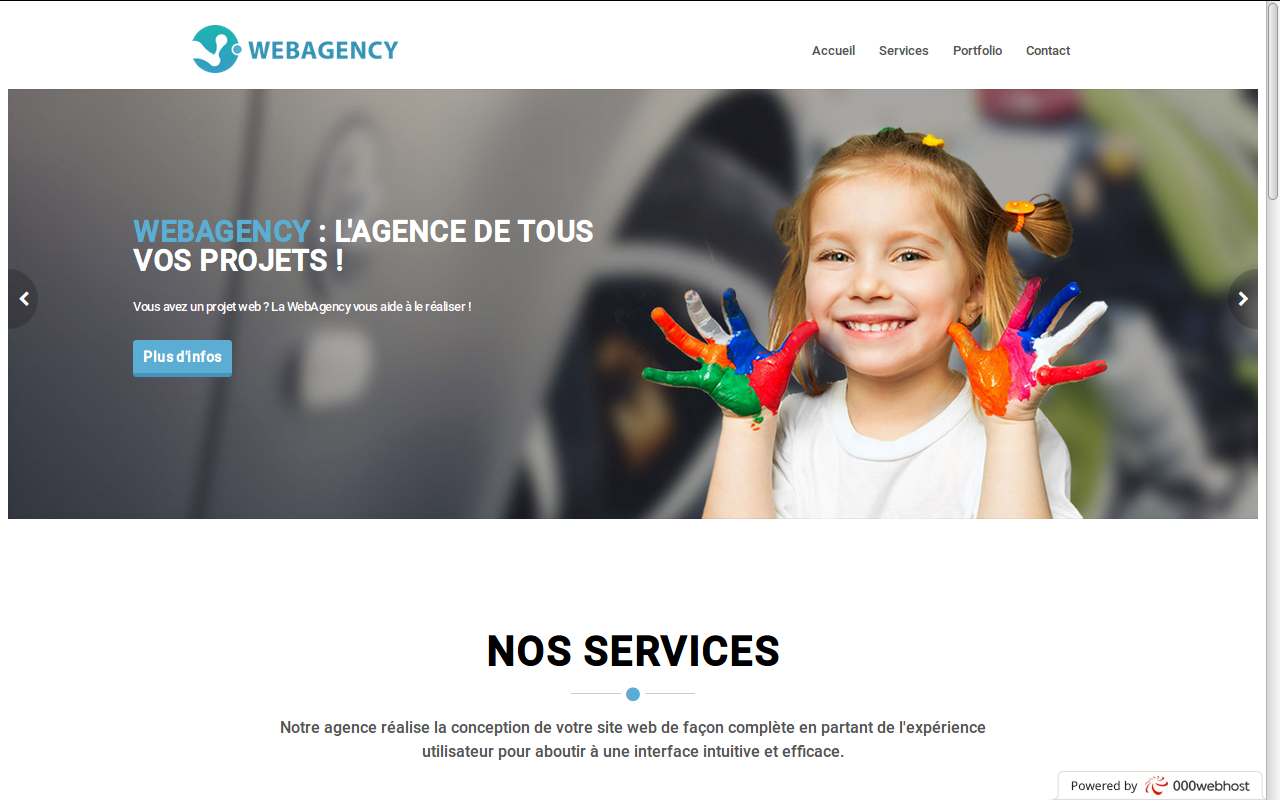
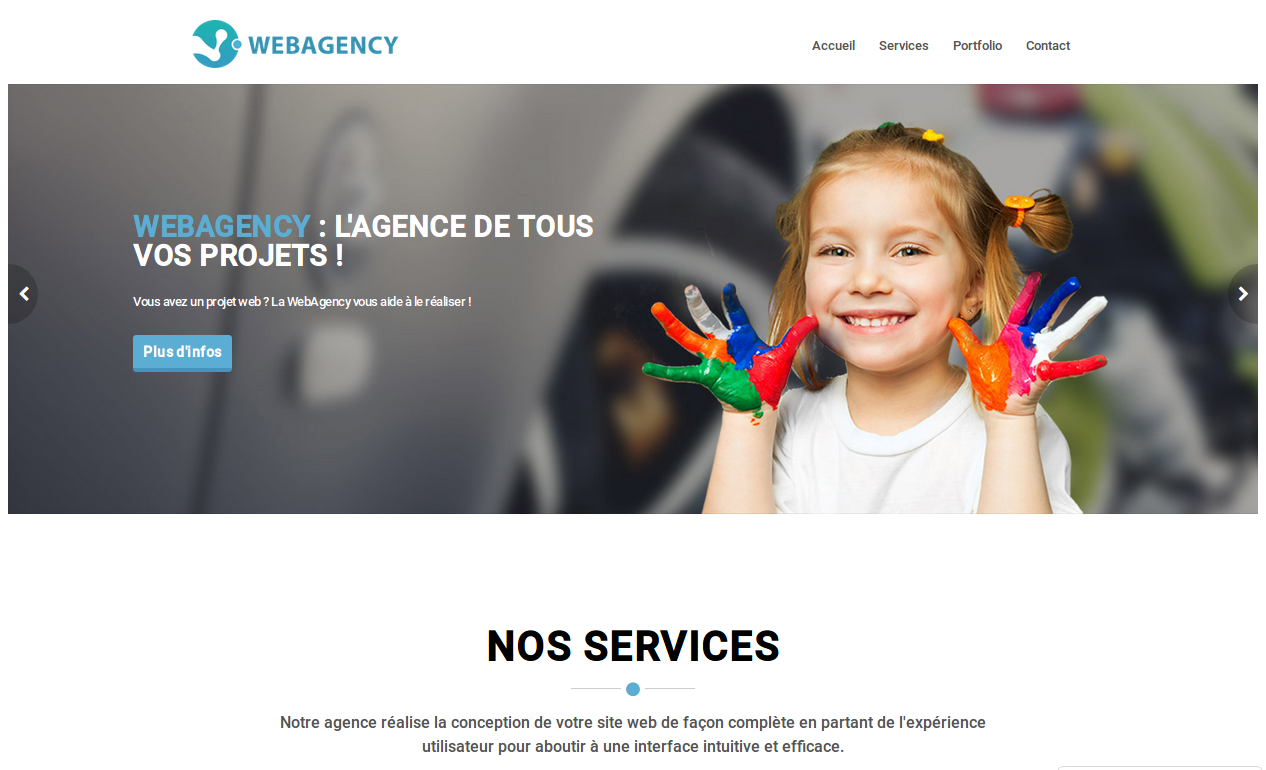
Adjust transitions

diff --git a/src/carousel/Carousel.js b/src/carousel/Carousel.js
@@ -10,37 +10,60 @@ class Carousel extends Component {
       infinite: true,
       speed: 500,
       slidesToShow: 1,
-      slidesToScroll: 1
+      slidesToScroll: 1,
+      lazyLoad: "progressive"
     };
 
     return (
-      <Slider {...settings}>
-        <div className="slide">
-          <img src="/images/slide1.png" alt=""/>
-          <div className="legend">Lorem ipsum dolor sit amet, consectetur adipisicing elit. Natus aut tempora quo, quisquam voluptas corrupti a minus, nihil fugit repellat quam recusandae expedita repellendus nam non saepe. Officia, ab, natus.
+      <div id="slider_wrapper">
+        <Slider {...settings}>
+          <div className="slide">
+            <img src="/images/slide1.png" alt=""/>
+            <div className="legend">
+            <h2>Projet Web Agency</h2>
+            <p>
+              Intégration d&rsquo;une maquette en HTML et CSS avec un design responsive.
+            </p>
+            </div>
           </div>
-        </div>
-        <div className="slide">
-          <img src="/images/slide2.png" alt=""/>
-          <div className="legend">Nulla iusto tempora minima cumque magnam provident, dicta facilis quod veritatis impedit distinctio eius illum similique, recusandae aperiam dolorem necessitatibus culpa optio debitis! Sunt iure quas, possimus. Accusantium, sint nihil.
+          <div className="slide">
+            <img src="/images/slide2.png" alt=""/>
+            <div className="legend">
+            <h2>Créer un site wordpress</h2>
+            <p>
+              Création de thème enfant | SEO | Respect des normes d&rsquo;accessibilité WCAG 2.0
+            </p>
+            </div>
           </div>
-        </div>
-        <div className="slide">
-          <img src="/images/slide3.png" alt=""/>
-          <div className="legend">Dolorem consequatur itaque unde ut magni! Alias velit hic, culpa reprehenderit maiores eaque! Blanditiis quam consectetur at. Incidunt optio, praesentium nulla, ipsum, a totam, veritatis inventore cupiditate tempore repellendus est.
+          <div className="slide">
+            <img src="/images/slide3.png" alt=""/>
+            <div className="legend">
+            <h2>Carte interactive de location de vélos</h2>
+            <p>
+              POO JavaScript | API Google Map | API JCDecaux | API Web Storage
+            </p>
+            </div>
           </div>
-        </div>
-        <div className="slide">
-          <img src="/images/slide4.png" alt=""/>
-          <div className="legend">Dolore vitae sapiente sed necessitatibus pariatur veniam distinctio error minus! Accusantium hic praesentium eum, voluptatem, aut excepturi repellendus asperiores. Assumenda expedita rem architecto provident ipsam, consequuntur deserunt magni officia quaerat.
+          <div className="slide">
+            <img src="/images/slide4.png" alt=""/>
+            <div className="legend">
+            <h2>Un blog pour un écrivain</h2>
+            <p>
+              Application PHP et MySQL | POO | MVC | Bootstrap
+            </p>
+            </div>
           </div>
-        </div>
-        <div className="slide">
-          <img src="/images/slide5.png" alt=""/>
-          <div className="legend">Numquam placeat eaque voluptates, corrupti cupiditate, non velit temporibus doloremque dolor quidem officiis pariatur porro minus quo adipisci accusamus rerum iste eveniet quia? Impedit quis ab, sed aliquam expedita sint.
+          <div className="slide">
+            <img src="/images/slide5.png" alt=""/>
+            <div className="legend">
+            <h2>Portail d&rsquo;activités pour enfants dans sa ville</h2>
+            <p>
+              Application PHP et MySQL utilisant les frameworks Laravel et Bootstrap
+            </p>
+            </div>
           </div>
-        </div>
-      </Slider>
+        </Slider>
+      </div>
     )
   }
 }

diff --git a/src/carousel/Carousel.css b/src/carousel/Carousel.css
@@ -1,21 +1,52 @@
 @import "~slick-carousel/slick/slick.css";
 @import "~slick-carousel/slick/slick-theme.css";
 
+#slider_wrapper {
+  margin: auto;
+}
+
 .slick-prev::before, .slick-next::before {
   color: #222;
+  font-size: 40px;
+}
+
+.slick-arrow {
+  width: 40px;
+  height: 40px;
+}
+
+.slick-prev {
+  left: -45px;
+}
+
+.slick-next {
+  right: -45px;
 }
 
 .slide {
-  width: 100%;
   height: 500px;
   position: relative;
+  overflow: hidden;
 }
 
-.slide > img {
+.slide img {
   width: 100%;
   object-fit: contain;
 }
 
 .legend {
-  height: 100px;
+  position: absolute;
+  bottom: 0;
+  width: 100%;
+  height: 150px;
+  padding: 0.5em;
+  box-sizing: border-box;
+  background-color: rgba(50,50,50,0.9);
+  color: #fff;
+}
+
+@media (min-width: 760px) {
+  #slider_wrapper {
+    width: 80%;
+  }
 }

diff --git a/src/App.css b/src/App.css
@@ -19,14 +19,21 @@
 
 .fade-enter.fade-enter-active {
   opacity: 1;
-  transition: opacity 750ms ease-in;
+  transition: opacity 1000ms ease-in;
 }
 
 .fade-enter-done {
   position: relative;
 }
 
+.fade-exit {
+  position: absolute;
+  top: 2em;
+  left: calc(50px+2em);
+  margin-right: 2em;
+  opacity: 0;
+}
+
 .fade-exit.fade-exit-active {
   opacity: 0;
-  transition: opacity 750ms ease-in;
 }

diff --git a/src/Portfolio.css b/src/Portfolio.css
@@ -1,3 +1,8 @@
 #portfolio {
   width: 100%;
 }
+
+#portfolio.fade-enter {
+  width: calc(100% - 4em);
+  height: calc(80%)
+}
